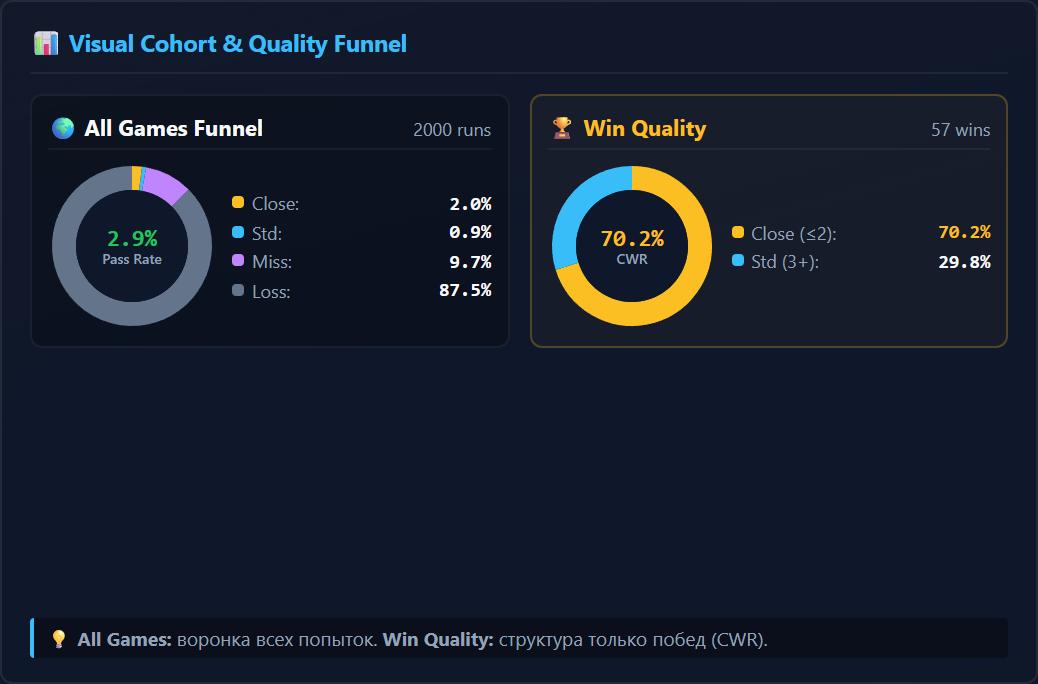
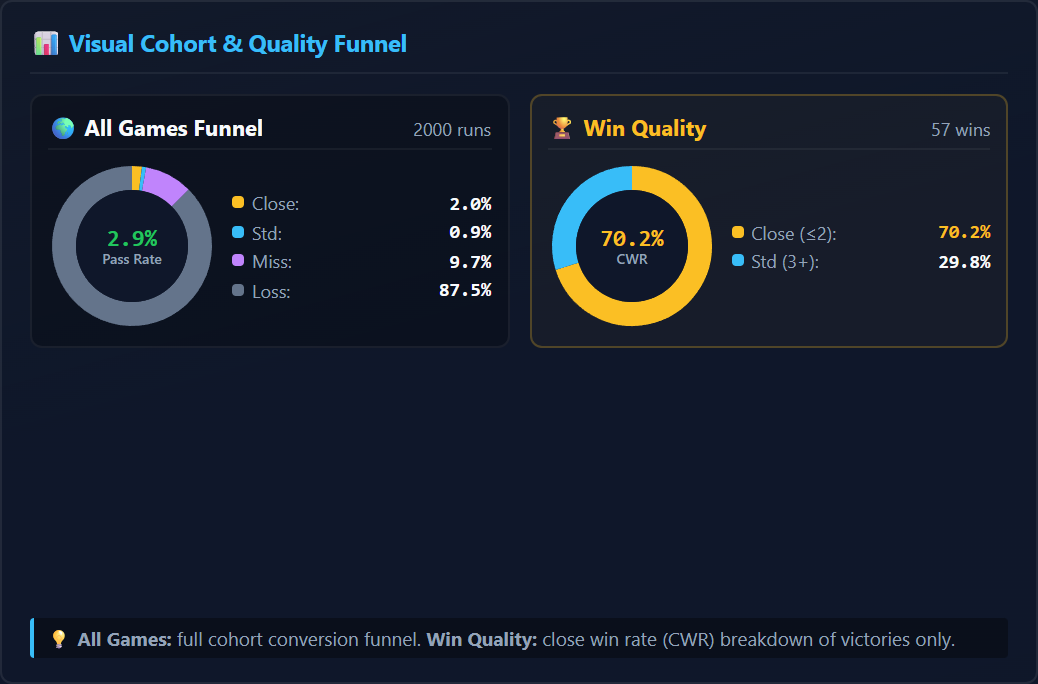
fix(ui): translate remaining Russian note to English in ChartsView and update screenshots

Changed region(s): [[0.1541, 0.9211, 0.9249, 0.9518]]

diff --git a/src/testing/ChartsView.ts b/src/testing/ChartsView.ts
@@ -343,7 +343,7 @@ export class ChartsView {
 
       <!-- Explainer Note -->
       <div class="dual-donuts-explainer">
-        <span>💡 <strong>All Games:</strong> воронка всех попыток. <strong>Win Quality:</strong> структура только побед (CWR).</span>
+        <span>💡 <strong>All Games:</strong> full cohort conversion funnel. <strong>Win Quality:</strong> close win rate (CWR) breakdown of victories only.</span>
       </div>
     `;
   }
